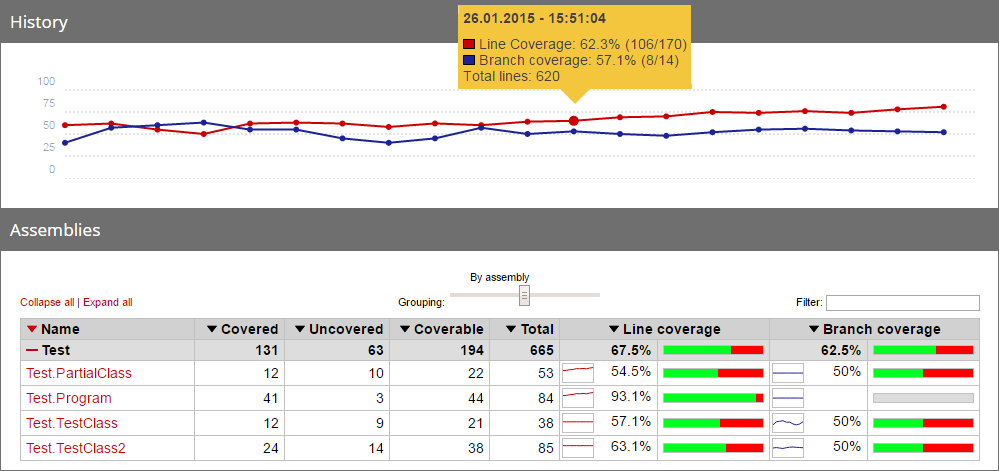
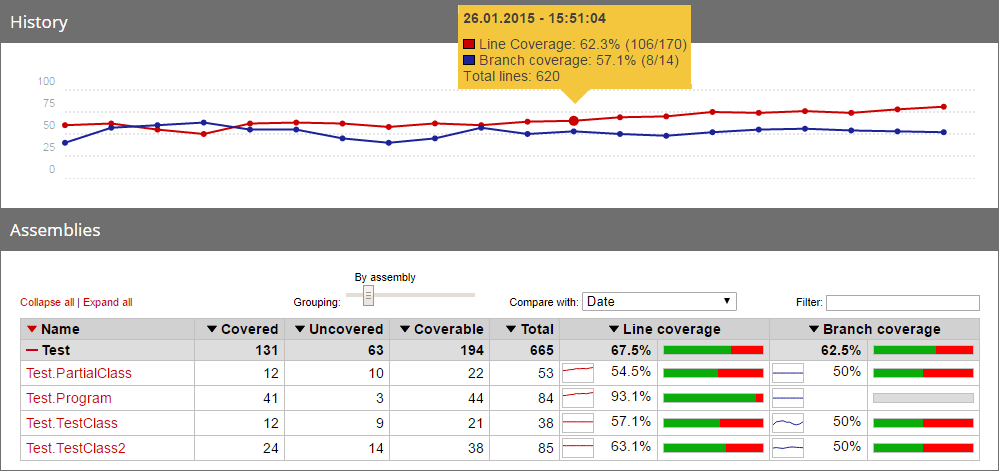
Updated screenshots

diff --git a/README.md b/README.md
@@ -1,4 +1,6 @@
 # ReportGenerator
+![Build status](https://danielpalme.visualstudio.com/ReportGenerator/_apis/build/status/danielpalme.ReportGenerator)
+
 *ReportGenerator* converts XML reports generated by OpenCover, dotCover, Visual Studio, NCover, Cobertura or JaCoCo into human readable reports in various formats.
 
 The reports do not only show the coverage quota, but also include the source code and visualize which lines have been covered.
@@ -6,32 +8,18 @@ The reports do not only show the coverage quota, but also include the source cod
 *ReportGenerator* supports merging several reports into one.
 It is also possible to pass one XML file containing several reports to *ReportGenerator* (e.g. a build log file).
 
-The following [output formats](https://github.com/danielpalme/ReportGenerator/wiki/Output-formats) are supported by *ReportGenerator* ([Download sample reports](https://danielpalme.github.io/ReportGenerator/resources/SampleReports.zip)):
-* HTML, HTMLSummary, HTMLInline, HTMLChart, [MHTML](https://en.wikipedia.org/wiki/MHTML)
-* Cobertura
-* XML, XMLSummary
-* Latex, LatexSummary
-* TextSummary
-* CsvSummary
-* PngChart
-* Badges
-* [Custom reports](https://github.com/danielpalme/ReportGenerator/wiki/Custom-reports)
-
-**Compatibility:**
-* [OpenCover](https://github.com/OpenCover/opencover) ([Nuget](https://www.nuget.org/packages/OpenCover))  
-  OpenCover format is also supported by [coverlet](https://github.com/tonerdo/coverlet/) and [altcover](https://github.com/SteveGilham/altcover)
-* [dotCover](https://www.jetbrains.com/dotcover/help/dotCover__Console_Runner_Commands.html) ([Nuget](https://www.nuget.org/packages/JetBrains.dotCover.CommandLineTools/), /ReportType=DetailedXML)
-* Visual Studio ([vstest.console.exe](https://github.com/danielpalme/ReportGenerator/wiki/Visual-Studio-Coverage-Tools#vstestconsoleexe), [CodeCoverage.exe](https://github.com/danielpalme/ReportGenerator/wiki/Visual-Studio-Coverage-Tools#codecoverageexe))
-* [NCover](https://www.ncover.com/info/download) (tested version 1.5.8, other versions may not work)
-* [Cobertura](https://github.com/cobertura/cobertura)
-* [JaCoCo](https://www.jacoco.org/jacoco/index.html)
-* Mono ([mprof-report](https://www.mono-project.com/docs/debug+profile/profile/profiler/#analyzing-the-profile-data)) 
-
-Additional information about *ReportGenerator* can be found under [Resources](#resources).
-
 Author: Daniel Palme  
 Blog: [www.palmmedia.de](http://www.palmmedia.de)  
 Twitter: [@danielpalme](https://twitter.com/danielpalme)  
+
+## File formats
+*ReportGenerator* supports several input and output formats.
+The wiki explains the different [output formats](https://github.com/danielpalme/ReportGenerator/wiki/Output-formats) or you can download [sample reports](https://danielpalme.github.io/ReportGenerator/resources/SampleReports.zip) in all formats.  
+If you need a custom format, you can create a [plugin](https://github.com/danielpalme/ReportGenerator/wiki/Custom-reports).
+
+| **Input formats** | **Output formats** |
+|:------------------|:-------------------|
+| <ul><li>[OpenCover](https://github.com/OpenCover/opencover) ([Nuget](https://www.nuget.org/packages/OpenCover))<br/>OpenCover format is also generated by [coverlet](https://github.com/tonerdo/coverlet/) and [altcover](https://github.com/SteveGilham/altcover)</li><li>[dotCover](https://www.jetbrains.com/dotcover/help/dotCover__Console_Runner_Commands.html) ([Nuget](https://www.nuget.org/packages/JetBrains.dotCover.CommandLineTools/), /ReportType=DetailedXML)</li><li>Visual Studio ([vstest.console.exe](https://github.com/danielpalme/ReportGenerator/wiki/Visual-Studio-Coverage-Tools#vstestconsoleexe), [CodeCoverage.exe](https://github.com/danielpalme/ReportGenerator/wiki/Visual-Studio-Coverage-Tools#codecoverageexe))</li><li>[NCover](https://www.ncover.com/info/download) (tested version 1.5.8, other versions may not work)</li><li>[Cobertura](https://github.com/cobertura/cobertura)</li><li>[JaCoCo](https://www.jacoco.org/jacoco/index.html)</li><li>Mono ([mprof-report](https://www.mono-project.com/docs/debug+profile/profile/profiler/#analyzing-the-profile-data))</li></ul><br/> | <ul><li>HTML, HTMLSummary, HTMLInline, HTMLChart, [MHTML](https://en.wikipedia.org/wiki/MHTML)</li><li>Cobertura</li><li>XML, XMLSummary</li><li>Latex, LatexSummary</li><li>TextSummary</li><li>CsvSummary</li><li>PngChart</li><li>Badges</li><li>[Custom reports](https://github.com/danielpalme/ReportGenerator/wiki/Custom-reports)</li></ul> |
 
 ## Screenshots
 The screenshots show two snippets of the generated reports:
